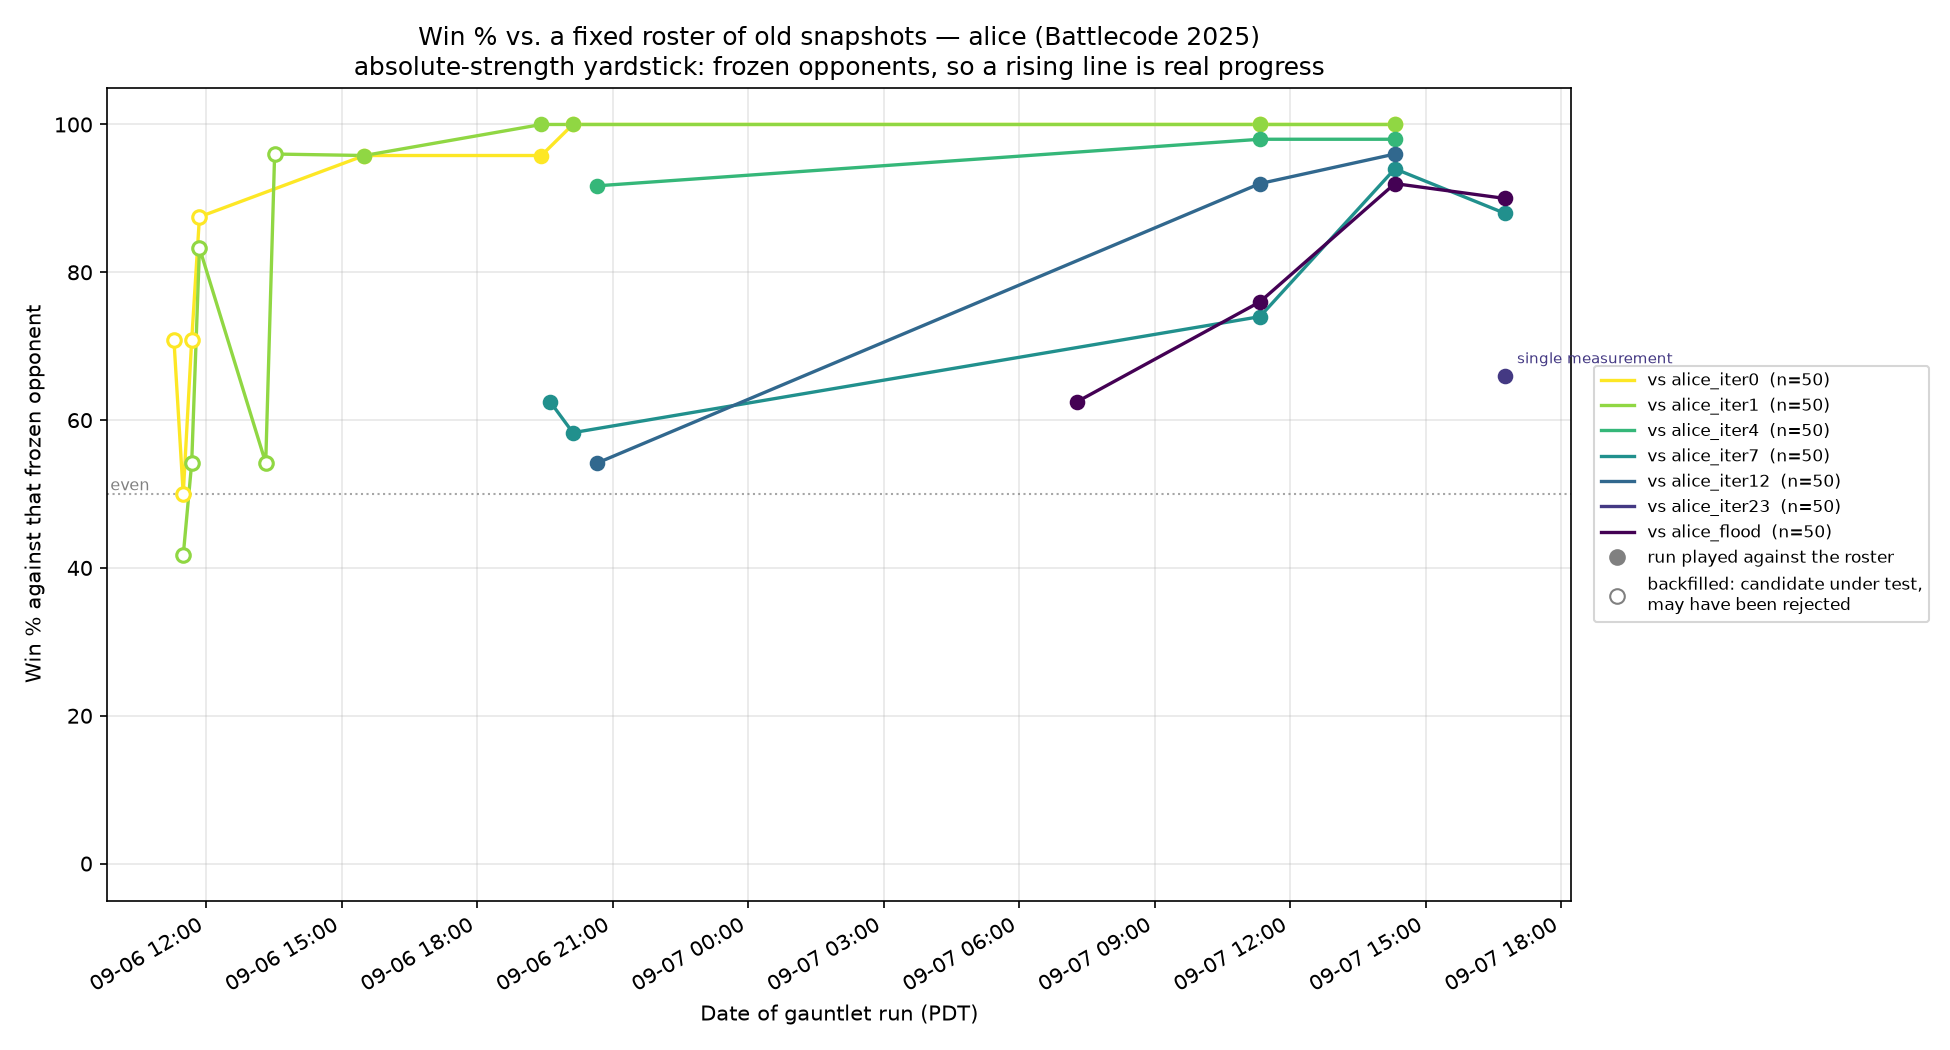
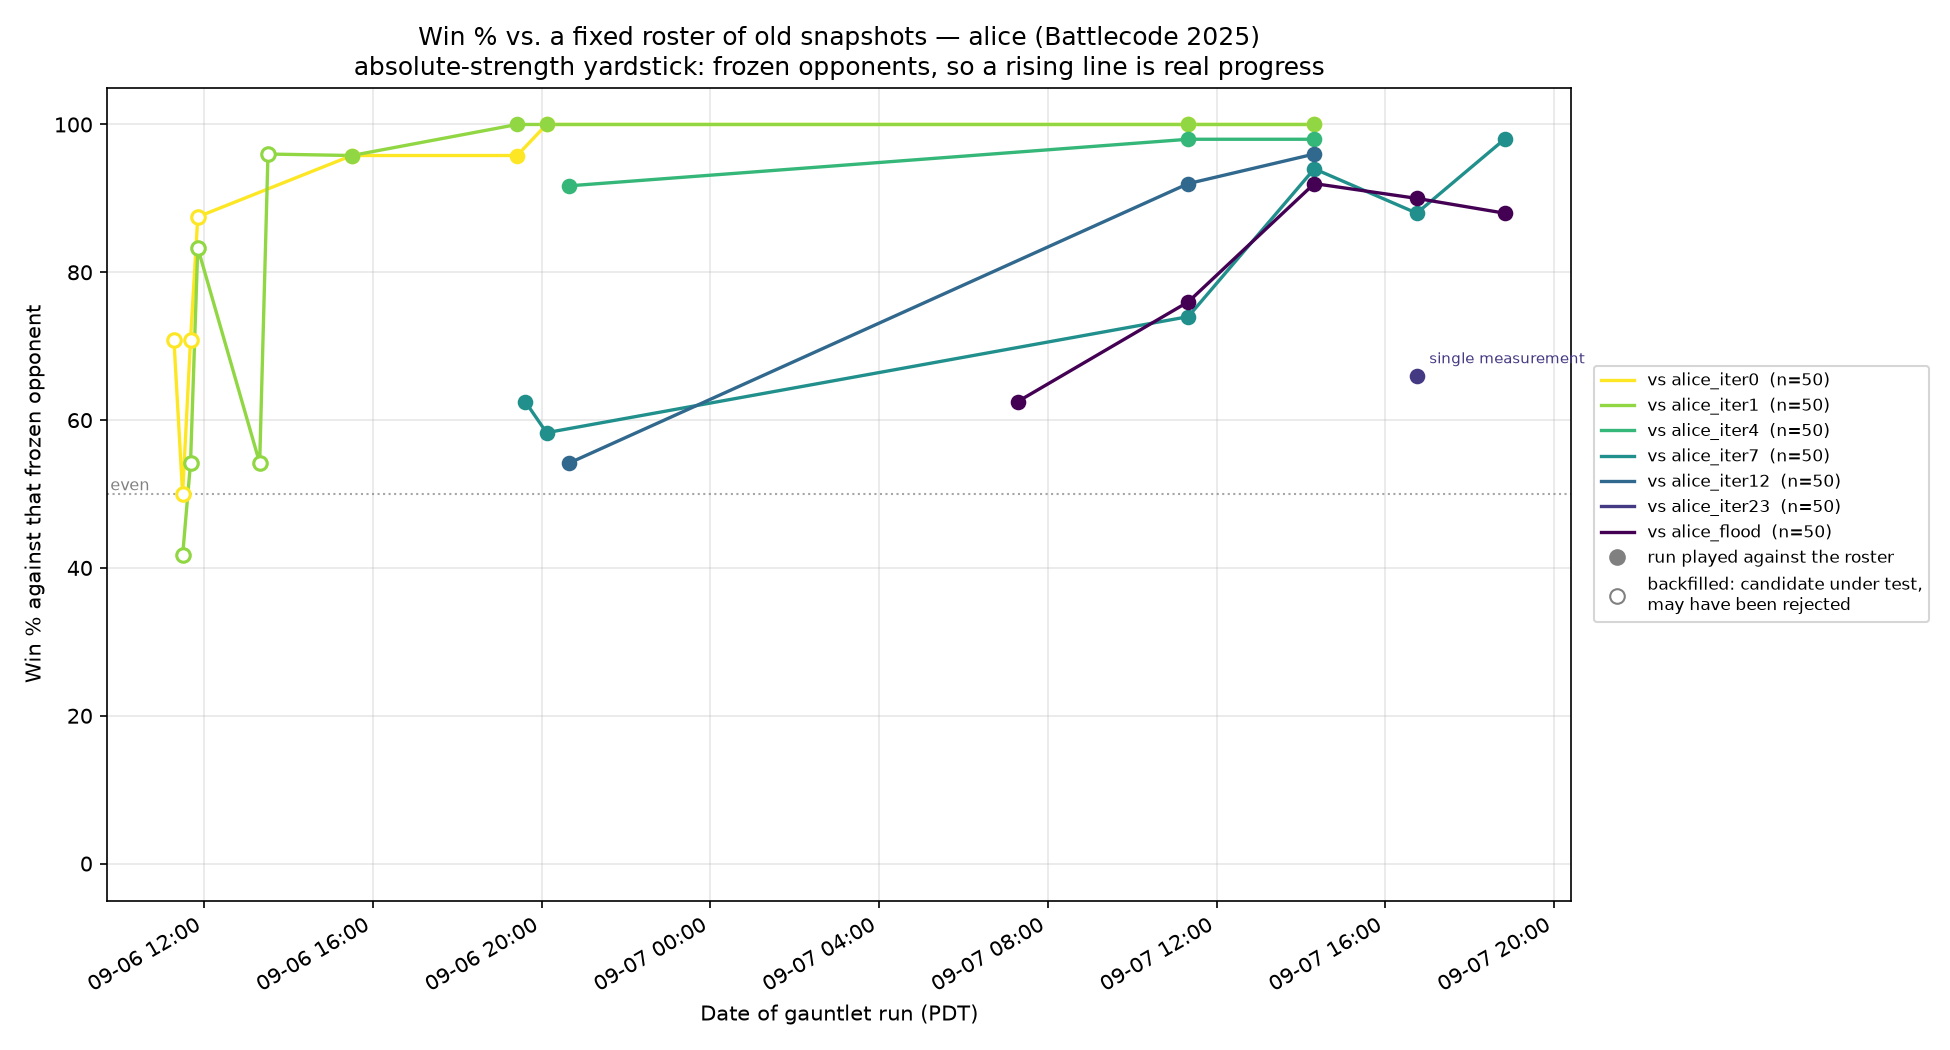
alice: resampling puts iteration 25 at +0.38 sd, CI straddling the null; charts updated
map-resample over MAPS: alice_iter24 26/50, boot_se 2.65, 95% CI [21,31], +0.38 sd from
the 25/50 mirror null. Agrees with the 4-3 sweep decomposition reached independently. The
per-map histogram says why: 18 of 25 maps split 1-1 and contribute nothing, so the
effective sample is 7 maps, not 50 games.

The flanking rows calibrate it -- the same instrument on the same 25 maps returns +8.93 sd
vs alice_flood and +24.41 sd vs alice_iter7. It can resolve an effect; it resolves nothing
here. And this is the CORRECTED instrument (resampling over maps), not the binomial one
the ledger records as having under-sold an accept.

Confirmation launched anyway per the pre-registered action. Cancelling it because the
statistic already convinced me would be moving a goalpost in the direction that looks
rigorous.

Roster points recorded (alice_i25: iter7 98.0%, flood 88.0%) and both charts regenerated.

Claude-Session: https://claude.ai/code/session_01AaaGzxRUmH5UDEVerTki8y

diff --git a/agents/alice/TRAINING_LOG.md b/agents/alice/TRAINING_LOG.md
@@ -10321,3 +10321,53 @@ increment does not, and the shape of the failure — sweeps in *both* directions
 exactly what a mechanism that perturbs without improving looks like. If I had reported
 only the headline (**81.3% overall**, which is what this run's three opponents average to)
 I would have described a triumph.
+
+### Resampling over maps — the correct error model, and it says +0.38 sd
+
+`tools/map-resample.py` on the completed run (bootstrap and jackknife over **maps**,
+which is the unit that actually varies between one estimate and the next):
+
+| opponent | score | boot se | 95% CI | distance from mirror null (25/50) | per-map wins {0,1,2} |
+|---|---|---|---|---|---|
+| `alice_flood` | 44/50 | 2.13 | [40, 48] | **+8.93 sd** | {1: 6, 2: 19} |
+| **`alice_iter24`** | **26/50** | **2.65** | **[21, 31]** | **+0.38 sd** | **{0: 3, 1: 18, 2: 4}** |
+| `alice_iter7` | 49/50 | 0.98 | [47, 50] | **+24.41 sd** | {1: 1, 2: 24} |
+
+**The gate interval [21, 31] straddles the null.** +0.38 sd is as close to nothing as
+this instrument reports, and it agrees with the sweep decomposition (4-3) that I reached
+independently — two readings of the same run that could have disagreed and did not.
+
+I want to be careful about *which* doctrine this run illustrates, because the ledger
+carries a warning in both directions. `MULTI_AGENT.md` records a case where an sd-style
+argument **under-sold** a real accept, and the fix was to resample over maps rather than
+quote a binomial. That fix is exactly what produced the +0.38 here — this is the corrected
+instrument, not the discredited one. And the per-map histogram is the reason: **18 of 25
+maps split 1-1 and contributed literally nothing**, so the effective sample is 7 maps, not
+50 games, and 4-3 on 7 maps is what it looks like.
+
+The two flanking rows are the calibration that makes this readable. The same instrument,
+on the same 25 maps, returns **+8.93 sd** and **+24.41 sd** against older builds. It is
+perfectly capable of resolving an effect. It resolves nothing here.
+
+**Confirmation launched** anyway, per the pre-registered action — 50 games, fresh random
+25-map sample, vs `alice_iter24`. Pooled verdict on 100 games: net swept > 0 accepts,
+<= 0 rejects. I am not cancelling it on the strength of +0.38 sd, because the pre-registered
+rule said *measure again*, and quietly substituting *"the statistic already convinced me"*
+for the measurement I promised is the same move as moving a goalpost, just in the
+direction that happens to look rigorous.
+
+### Absolute-strength instrument updated
+
+Roster points recorded from the completed run and both charts regenerated:
+
+| frozen opponent | `alice_i24` (previous) | **`alice_i25`** |
+|---|---|---|
+| `alice_iter7` | 88.0% | **98.0%** |
+| `alice_flood` | 90.0% | 88.0% |
+
+Read with the charter's own caveat: **these two runs used different random map samples**,
+so 88 -> 98 against `alice_iter7` is a delta across samples and is noisier than it looks.
+The within-run comparison is the sound one, and within *this* run the ordering is
+`alice_iter7` 49/50, `alice_flood` 44/50, `alice_iter24` 26/50 — a clean monotone ladder
+down the lineage's own history, which is what an improving bot should produce and is
+independent of whether iteration 25 itself is real.
